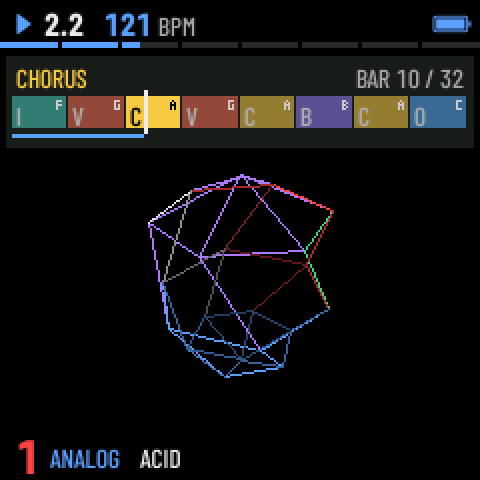
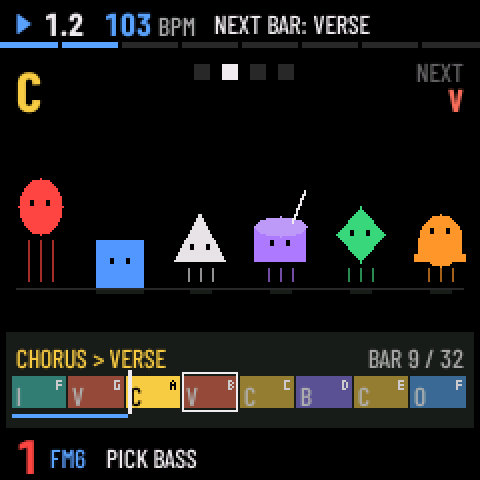
TEEN's SPELL: THE BAND in place of the wire shape
Six toys on a floor, one a track in its colour (a ball, a soft square, a triangle, a drum and its stick, a diamond, a
bell), two eyes each: a note of the track, its toy jumps (230 ms up and down, the shadow narrowing); muted, it lies
flat over MUTE; an FX key held, every eye squints. Over them the bar's four beats, the part's letter, NEXT and the
cued part's. ANIM OFF: a note lights its toy. The two pieces draw one state (bd_tick in the panel's). VALLEE.md, the
cheat sheet, the installer page and teen_scope.png with it.

Claude-Session: https://claude.ai/code/session_01Smnn5JCZ1AURvC9Nua4aWq

diff --git a/web/index_pkg.html b/web/index_pkg.html
@@ -160,7 +160,7 @@
   <div class="shots">
     <figure><img src="brand/teen_home.png" alt="TEEN HOME: an OP-1 style tape deck" loading="lazy"><figcaption data-t="cTeen1"></figcaption></figure>
     <figure><img src="brand/teen_preset.png" alt="TEEN: the preset's name, big" loading="lazy"><figcaption data-t="cTeen2"></figcaption></figure>
-    <figure><img src="brand/teen_scope.png" alt="TEEN: the song's map and the wire shape" loading="lazy"><figcaption data-t="cTeen3"></figcaption></figure>
+    <figure><img src="brand/teen_scope.png" alt="TEEN: the song's map and THE BAND" loading="lazy"><figcaption data-t="cTeen3"></figcaption></figure>
   </div>
 
   <h2 data-t="hNext"></h2>
@@ -198,7 +198,7 @@ const TEXT = {
     f6t: "2つのテーマ", f6: "神秘的な XENO と、OP-1 風のすっきりした TEEN。",
     xenoSub: "標準", teenSub: "OP-1 風",
     cXeno1: "HOME: テープデッキ、音色ごとのクリーチャー", cXeno2: "PRESETS を回す: 音色のクリーチャー", cXeno3: "HOME をもう一度: THE SPELL、上に曲マップ",
-    cTeen1: "HOME: 線のリール、ローラー、大きなトラック名", cTeen2: "PRESETS を回す: 名前を大きく", cTeen3: "HOME をもう一度: 曲で動くワイヤーの形",
+    cTeen1: "HOME: 線のリール、ローラー、大きなトラック名", cTeen2: "PRESETS を回す: 名前を大きく", cTeen3: "HOME をもう一度: 曲に合わせて跳ねる6つのおもちゃ",
     lEditor: "エディタ", lGuide: "Vallée ガイド", lLearn: "Skiff マニュアル", lCs: "チートシート", csBtn: "チートシート (PDF)",
     cs: "操作が一目でわかる 2 ページの PDF（英語）。印刷して FM-1 の横に",
     guide: "Vallée で増えたこと: GEN、THE SPELL、鍵盤、テーマ、音色（英語）",
@@ -266,7 +266,7 @@ const TEXT = {
     f6t: "Two themes", f6: "XENO, the esoteric one, and TEEN, a clean OP-1 style tape machine.",
     xenoSub: "THE DEFAULT", teenSub: "OP-1 STYLE",
     cXeno1: "HOME: the tape deck, a creature for every sound", cXeno2: "Turn PRESETS: the sound's creature", cXeno3: "HOME on HOME: THE SPELL, the song's map above",
-    cTeen1: "HOME: line reels, rollers, the tracks big", cTeen2: "Turn PRESETS: the name, big", cTeen3: "HOME on HOME: a wire shape the song moves",
+    cTeen1: "HOME: line reels, rollers, the tracks big", cTeen2: "Turn PRESETS: the name, big", cTeen3: "HOME on HOME: six toys that jump to the song",
     lEditor: "Editor", lGuide: "Vallée guide", lLearn: "Skiff manual", lCs: "Cheat sheet", csBtn: "Cheat sheet (PDF)",
     cs: "Every control on two pages: print it and keep it by the FM-1",
     guide: "Everything Vallée adds: GEN, THE SPELL, the keys, the themes, the sounds",

diff --git a/docs/cheatsheet/cheatsheet.html b/docs/cheatsheet/cheatsheet.html
@@ -117,7 +117,7 @@ footer { position: absolute; left: 0.42in; right: 0.42in; bottom: 0.18in; font-s
     </section>
 
     <section class="h2c2"><h2>Looks</h2>
-      <div class="e"><span class="l"><kbd>MENU › DISPLAY › THEME</kbd></span><b><b>XENO</b>: tape deck, a creature for every sound, THE SPELL. <b>TEEN</b>: an OP-1 style tape machine, big track names, a wire shape on HOME on HOME.</b></div>
+      <div class="e"><span class="l"><kbd>MENU › DISPLAY › THEME</kbd></span><b><b>XENO</b>: tape deck, a creature for every sound, THE SPELL. <b>TEEN</b>: an OP-1 style tape machine, big track names, a band of six toys that jump to the song on HOME on HOME.</b></div>
       <div class="e"><span class="l"><kbd>turn PRESETS on HOME</kbd></span><b>A box shows the new sound: its creature (XENO) or its name big (TEEN).</b></div>
       <div class="note">Creature families by track: 1 green aliens · 2 blue cryptids · 3 yellow psi orbs · 4 pink crystals · 5 purple sigils · 6 orange herbs.</div>
     </section>

diff --git a/firmware/src/ui_world.c b/firmware/src/ui_world.c
@@ -811,145 +811,172 @@ static void wl_visit(int32_t H, uint32_t now, uint16_t sky)
     }
 }
 
-/* (Vallée) THEME TEEN's HOME on HOME under the map: on black, a wire shape of thin lines (as the intro's grid), turning.
- * Rings of points round an axis, each pushed out towards the side its tracks pull: every track a direction, its hits
- * a pull that dies away, so the shape bulges where the song plays and the lines near flash in that track's colour.
- * Its build (how many rings, how many points, the twist) is new at every PLAY, the directions new at every part of the
- * song, the shape easing to them: never the same twice. ANIM OFF: still */
+/* (Vallée) THEME TEEN's HOME on HOME over the map: THE BAND ((the user's pick B of four), OP-1's way): on black, six
+ * toys on a floor, one a track in its colour, each its own shape (the bass a ball, the pad a soft square, the lead a
+ * triangle, the drums a drum and its stick, the colour a diamond, the percussion a bell), two eyes on it. A note of its
+ * track: it jumps (up and back in BD_JUMP ms, its shadow narrowing under it); muted: it lies flat, MUTE under it; an FX
+ * key held: every eye squints. Over them the bar's four beats, the part playing (its letter, its colour) and the part a
+ * key sends it to (NEXT). ANIM OFF: no jumps, a note lights its toy. bd_tick (the panel's piece) reads the song; the top
+ * piece draws the same state: both halves of one moment */
+#define BD_JUMP 230u                                    /* (ms: up and down) */
+#define BD_UP 30                                        /* (px at the top) */
 static struct {
-    uint32_t sig, a, p, seed;
-    int32_t en[NTRK];                                  /* each track's pull, 0..1000 */
-    int32_t lob[NTRK][3], to[NTRK][3];                 /* its direction (Q15), the one it eases to */
+    uint32_t hit[NTRK], now;                            /* (when each last struck; the moment drawn) */
     uint16_t idx[NTRK];
-    uint8_t nr, np, tw, was;
-} tg;
-static void tg_dirs(uint32_t s)
+    uint8_t beat, cur, next, n;                         /* (the beat 0..3; the part playing + 1, the cued + 1) */
+    uint8_t grp[2];                                     /* (their colours' groups) */
+    char cn[2], nn[2];                                  /* (their letters) */
+} bd;
+static void bd_tick(void)
 {
-    uint32_t k;
-    for (k = 0; k < NTRK; k++) {
-        uint32_t h = wl_h(s + k * 7919u), lo = h, la = (h >> 4) % 1610612736u - 805306368u;   /* (within 67 deg) */
-        int32_t cl = QK_COS(la);
-        tg.to[k][0] = cl * QK_COS(lo) / 32767;
-        tg.to[k][1] = QK_SIN(la);
-        tg.to[k][2] = cl * QK_SIN(lo) / 32767;
-    }
-}
-enum { TG_NR = 6, TG_NP = 10 };
-static int32_t tg_sx[TG_NR + 2][TG_NP], tg_sy[TG_NR + 2][TG_NP], tg_sz[TG_NR + 2][TG_NP], tg_kk[TG_NR + 2][TG_NP];
-#define sx tg_sx
-#define sy tg_sy
-#define sz tg_sz
-#define kk tg_kk
-static void wl_geo(int32_t H, int upd)              /* (upd: the song's moves and the points; else the lines alone, */
-{                                                   /* as the last ones: TEEN's top piece) */
-    const int anim = xe_anim();
-    const uint32_t now = anim ? fm1_ms : 0u;
-    int32_t R = H * 31 / 100, cx = 120, cy = H / 2 + 2;
-    uint32_t i, j, k, kb, pos, sig;
-    cv_rect(0, 0, 240, H, T_BG);
-    if (!upd && tg.nr)
-        goto lines;
-    if (song.playing && (!tg.was || !tg.nr)) {          /* PLAY: a new build */
-        tg.seed = wl_h(fm1_ms ^ ui.frame ^ wl.seed);
-        tg.nr = (uint8_t)(2u + tg.seed % 2u);           /* (few lines: 2 or 3 rings of 5 .. 7) */
-        tg.np = (uint8_t)(5u + (tg.seed >> 3) % 3u);
-        tg.tw = (uint8_t)((tg.seed >> 7) % 4u);
-        tg_dirs(tg.seed ^ 77u);
-        memcpy(tg.lob, tg.to, sizeof tg.lob);
-    }
-    if (!tg.nr) {
-        tg.nr = 2;
-        tg.np = 6;
-        tg_dirs(12345u);
-        memcpy(tg.lob, tg.to, sizeof tg.lob);
-    }
-    tg.was = song.playing;
-    (void)song_at(&kb, &pos);                           /* a new part of the song: new directions */
-    sig = song.playing ? lists.cur[kb % NTRK] + 1u + (uint32_t)lists.ent[kb % NTRK][lists.cur[kb % NTRK] % NENT][0] * 64u : 0u;
-    if (sig != tg.sig) {
-        tg.sig = sig;
-        tg.seed = wl_h(tg.seed ^ sig ^ fm1_ms);
-        tg_dirs(tg.seed);
-        for (k = 0; k < NTRK; k++)
-            tg.en[k] += 400;
-    }
-    for (k = 0; k < NTRK; k++) {                         /* the pulls: a hit, then dying away; easing to the new ways */
+    uint32_t at0[WL_NSEC], len[WL_NSEC], pos, total, n, i, k, cur = 0;
+    uint8_t grp[WL_NSEC], ent[WL_NSEC];
+    char nm[24];
+    bd.now = fm1_ms;
+    for (k = 0; k < NTRK; k++) {                        /* the strikes */
         const track_t *t = &trk[k];
-        uint32_t len = t->p[P_SLEN] > 0 ? (uint32_t)t->p[P_SLEN] : 16u, cur = t->seq_idx % len;
-        if (song.playing && cur != tg.idx[k] && !t->p[P_MUTE] && step_on(&t->step[cur]))
-            tg.en[k] = 1000;
-        tg.idx[k] = (uint16_t)cur;
-        tg.en[k] = tg.en[k] > 1000 ? 1000 : tg.en[k] * 9 / 10;
-        for (i = 0; i < 3u; i++)
-            tg.lob[k][i] += (tg.to[k][i] - tg.lob[k][i]) / 12;
+        uint32_t l = t->p[P_SLEN] > 0 ? (uint32_t)t->p[P_SLEN] : 16u, c = t->seq_idx % l;
+        if (song.playing && c != bd.idx[k] && !t->p[P_MUTE] && step_on(&t->step[c]))
+            bd.hit[k] = bd.now | 1u;
+        bd.idx[k] = (uint16_t)c;
     }
-    if (anim) {
-        int32_t e = 0;
-        for (k = 0; k < NTRK; k++)
-            e += tg.en[k];
-        tg.a += 0x00500000u + (uint32_t)e * 0x00000C00u;   /* (the more it plays, the faster it turns) */
-        tg.p = 0x14000000u + (uint32_t)(QK_SIN(now * 65536u) * 0x0C00);
+    n = wl_song(at0, len, grp, ent, &pos, &total);
+    bd.n = (uint8_t)n;
+    if (!n) {                                           /* (the LOOP: the selected track's steps) */
+        uint32_t l = TSEL->p[P_SLEN] > 0 ? (uint32_t)TSEL->p[P_SLEN] : 16u;
+        bd.beat = (uint8_t)(song.playing ? TSEL->seq_idx % l / 4u % 4u : 0u);
+        bd.cur = bd.next = 0;
+        return;
     }
-    for (i = 0; i < (uint32_t)tg.nr + 2u; i++)           /* the points: the poles (rows 0 and nr + 1), the rings */
-        for (j = 0; j < tg.np; j++) {
-            uint32_t la = i == 0 ? 3221225472u : i == tg.nr + 1u ? 1073741824u
-                                 : 3221225472u + i * (2147483648u / (tg.nr + 1u));
-            uint32_t lo = j * (4294967295u / tg.np) + i * (uint32_t)tg.tw * 0x08000000u;
-            int32_t v[3], cl = QK_COS(la), sum = 0, best = 0, r, x, y, z, ca, sa, cp, sp, x1, z1;
-            v[0] = cl * QK_COS(lo) / 32767;
-            v[1] = QK_SIN(la);
-            v[2] = cl * QK_SIN(lo) / 32767;
-            kk[i][j] = -1;
-            for (k = 0; k < NTRK; k++) {
-                int32_t d = (v[0] * tg.lob[k][0] + v[1] * tg.lob[k][1] + v[2] * tg.lob[k][2]) / 32767, c;
-                if (d <= 0)
-                    continue;
-                c = tg.en[k] * d / 32767 * d / 32767;     /* (a narrow pull: squared) */
-                sum += c;
-                if (c > best && c > 220)
-                    best = c, kk[i][j] = (int32_t)k;
-            }
-            r = R * (1000 + (sum > 1200 ? 1200 : sum) * 40 / 100 + (anim ? QK_SIN(now * 196608u + i * 0x2345678u + j * 0x9876543u) * 40 / 32767 : 0)) / 1000;
-            x = r * v[0] / 32767;
-            y = r * v[1] / 32767;
-            z = r * v[2] / 32767;
-            ca = QK_COS(tg.a), sa = QK_SIN(tg.a), cp = QK_COS(tg.p), sp = QK_SIN(tg.p);
-            x1 = (x * ca + z * sa) / 32767;
-            z1 = (-x * sa + z * ca) / 32767;
-            sz[i][j] = (y * sp + z1 * cp) / 32767;
-            sx[i][j] = cx + x1 * 260 / (260 + sz[i][j]);
-            sy[i][j] = cy + ((y * cp - z1 * sp) / 32767) * 260 / (260 + sz[i][j]);
-        }
-lines:
-    for (i = 0; i < (uint32_t)tg.nr + 2u; i++)           /* the lines: round each ring, and down to the next */
-        for (j = 0; j < tg.np; j++) {
-            uint32_t n2 = (j + 1u) % tg.np, m;
-            for (m = 0; m < 2u; m++) {
-                uint32_t bi = m ? i + 1u : i, bj = m ? j : n2;
-                int32_t z, kc;
-                uint16_t c;
-                if (bi > (uint32_t)tg.nr + 1u || (!m && (i == 0 || i == tg.nr + 1u)))
-                    continue;
-                z = (sz[i][j] + sz[bi][bj]) / 2;
-                kc = kk[i][j] >= 0 ? kk[i][j] : kk[bi][bj];
-                c = kc >= 0 ? T_TRK((uint32_t)kc) : T_THEME;
-                c = z > 0 ? ux_mix(c, T_BG, 30 + (z * 40 / (R + 1) > 40 ? 40 : z * 40 / (R + 1))) : c;
-                xe_line(sx[i][j], sy[i][j], sx[bi][bj], sy[bi][bj], c);
-            }
-        }
+    for (i = 0; i < n; i++)
+        if (pos >= at0[i] && pos < at0[i] + len[i])
+            cur = i;
+    bd.beat = (uint8_t)(pos % 192u / 48u);
+    bd.cur = (uint8_t)(cur + 1u);
+    bd.grp[0] = grp[cur];
+    wl_sec_name(nm, cur, grp[cur], wl_gen_layout(grp, n));
+    bd.cn[0] = nm[0];
+    bd.cn[1] = 0;
+    bd.next = wl.cue && wl.cue <= n ? wl.cue : 0u;
+    if (bd.next) {
+        bd.grp[1] = grp[bd.next - 1u];
+        wl_sec_name(nm, bd.next - 1u, grp[bd.next - 1u], wl_gen_layout(grp, n));
+        bd.nn[0] = nm[0];
+        bd.nn[1] = 0;
+    }
 }
-
-#undef sx
-#undef sy
-#undef sz
-#undef kk
-/* TEEN's HOME on HOME: the wire shape from the cards' row down (two pieces, as TEEN's HOME), the song's map under it */
+static void bd_oval(int32_t x0, int32_t y0, int32_t w, int32_t h, uint16_t c)   /* (filled, in the box) */
+{
+    int32_t y, a = w / 2, b = h / 2, cx = x0 + a, cy = y0 + b;
+    for (y = -b; y <= b; y++) {
+        int32_t xx = b ? a * xe_isqrt((b * b - y * y) * 256) / (b * 16) : a;
+        cv_rect(cx - xx, cy + y, 2 * xx + 1, 1, c);
+    }
+}
+static int bd_in(int32_t y, int32_t h) { return y + cv_oy >= 0 && y + h + cv_oy <= (int32_t)cv_h; }   /* (text: in this piece) */
+static void bd_toy(uint32_t k, int32_t x, int32_t foot, int32_t up, int lit, int squint)
+{
+    const track_t *t = &trk[k];
+    uint16_t col = lit ? T_TRK(k) : ux_mix(T_TRK(k), T_BG, 70), eye = T_BG;
+    int32_t y = foot - up, s = up > BD_UP / 2 ? 2 : 0, i, ey;   /* (s: stretched, up in the air) */
+    if (t->p[P_MUTE]) {                                  /* (asleep: flat on the floor) */
+        cv_rect(x - 13, foot - 6, 26, 6, T_DIM);
+        cv_rect(x - 7, foot - 4, 4, 1, T_BG);
+        cv_rect(x + 3, foot - 4, 4, 1, T_BG);
+        if (bd_in(foot + 3, 12)) {
+            int32_t b[4];
+            text_ink(&AF_S, "MUTE", b);
+            cv_text_on(x - b[2] / 2 - b[0], foot + 3, &AF_S, "MUTE", T_DIM, T_BG);
+        }
+        return;
+    }
+    {   /* its shadow: narrower the higher it is */
+        int32_t sw = 24 - up;
+        if (sw > 4)
+            cv_rect(x - sw / 2, foot + 1, sw, 2, T_SURF);
+    }
+    if (up > 6)                                          /* (the jump's lines) */
+        for (i = -6; i <= 6; i += 6)
+            cv_rect(x + i, y + 3, 1, up - 6, ux_mix(col, T_BG, 35));
+    ey = y - 15;
+    switch (k % 6u) {
+    case 0:                                              /* bass: a ball */
+        bd_oval(x - 13 + s, y - 26 - s, 26 - 2 * s, 26 + s, col);
+        ey = y - 17;
+        break;
+    case 1:                                              /* pad: a soft square */
+        cv_rrect(x - 12 + s / 2, y - 24 - s, 24 - s, 24 + s, 5, col, T_BG);
+        break;
+    case 2:                                              /* lead: a triangle */
+        for (i = 0; i < 24 + s; i++) {
+            int32_t hw = 1 + i * 13 / (24 + s);
+            cv_rect(x - hw, y - 24 - s + i, 2 * hw, 1, col);
+        }
+        ey = y - 9;
+        break;
+    case 3:                                              /* drums: a drum, its stick */
+        cv_rect(x - 13, y - 18, 26, 18, col);
+        bd_oval(x - 13, y - 23, 26, 10, ux_mix(T_TEXT, col, 70));
+        cv_line_t(x + 6, y - 21, x + (up ? 12 : 16), y - (up ? 36 : 33), T_TEXT, 2);
+        ey = y - 11;
+        break;
+    case 4:                                              /* colour: a diamond */
+        for (i = 0; i <= 28 + s; i++) {
+            int32_t m = (28 + s) / 2, hw = 12 * (i <= m ? i : 28 + s - i) / m;
+            cv_rect(x - hw, y - 28 - s + i, 2 * hw + 1, 1, col);
+        }
+        ey = y - 16;
+        break;
+    default:                                             /* percussion: a bell */
+        bd_oval(x - 11, y - 24 - s, 22, 26 + s, col);
+        cv_rect(x - 12, y - 11, 24, 11, T_BG);
+        cv_rect(x - 11, y - 12, 22, 8, col);
+        cv_rect(x - 13, y - 4, 26, 4, col);
+        ey = y - 17;
+        break;
+    }
+    if (squint) {                                        /* (an FX key held) */
+        cv_rect(x - 6, ey + 1, 4, 1, eye);
+        cv_rect(x + 2, ey + 1, 4, 1, eye);
+    } else if (!(xe_anim() && (bd.now / 16u + k * 397u) % 211u < 7u)) {   /* (a blink now and then) */
+        cv_rect(x - 5, ey, 2, 3, eye);
+        cv_rect(x + 3, ey, 2, 3, eye);
+    } else {
+        cv_rect(x - 5, ey + 1, 2, 1, eye);
+        cv_rect(x + 3, ey + 1, 2, 1, eye);
+    }
+}
+static void wl_band(int32_t H)
+{
+    const int anim = xe_anim();
+    int32_t foot = H - 22, k, b;
+    cv_rect(0, 0, 240, H, T_BG);
+    cv_rect(8, foot, 224, 1, T_LINE);
+    for (k = 0; k < (int32_t)NTRK; k++) {
+        uint32_t dt = bd.now - (bd.hit[k] & ~1u);
+        int32_t up = 0, lit = anim || (bd.hit[k] && dt < 120u);   /* (ANIM OFF: a note lights it) */
+        if (anim && bd.hit[k] && dt < BD_JUMP)            /* (a parabola: up, then down) */
+            up = (int32_t)(4u * BD_UP * dt * (BD_JUMP - dt) / (BD_JUMP * BD_JUMP));
+        bd_toy((uint32_t)k, 20 + k * 40, foot, up, lit, perf_auto_on != 0);
+    }
+    for (b = 0; b < 4; b++)                               /* the bar's beats */
+        cv_rrect(97 + b * 14, 4, 8, 8, 4, b == bd.beat && song.playing ? T_TEXT : T_LINE, T_BG);
+    if (!bd_in(0, 28))                                    /* (the letters: the top piece's) */
+        return;
+    if (bd.cur)
+        cv_text_on(8, 0, &AF_L, bd.cn, WL_SEC[bd.grp[0] % 8u], T_BG);
+    if (bd.next) {
+        cv_text_r(232, 0, &AF_S, "NEXT", T_DIM, T_BG);
+        cv_text_r(232, 12, &AF_M, bd.nn, WL_SEC[bd.grp[1] % 8u], T_BG);
+    }
+}
+/* TEEN's HOME on HOME: THE BAND from the cards' row down (two pieces, as TEEN's HOME), the song's map under it */
 #define WL_TEEN_TOP (Y_GRAPH - Y_LABEL)
 static int32_t wl_teen_h(void) { return WL_TEEN_TOP + (int32_t)graph_h() - 48; }
 static void wl_teen_top(void)
 {
     cv_begin(240, WL_TEEN_TOP, T_BG);
-    wl_geo(wl_teen_h(), 0);
+    wl_band(wl_teen_h());
     cv_blit(0, Y_LABEL);
 }
 static void wl_world(void)
@@ -959,9 +986,10 @@ static void wl_world(void)
     const uint32_t now = anim ? fm1_ms : 0u;
     const uint16_t sky = WL_RGB(14, 10, 28), floor = WL_RGB(24, 18, 40);
     int32_t lvl = 0, k, i, hx, hy;
-    if (UX_TEEN) {                                     /* (TEEN: the wire shape, no spell; the map under it) */
+    if (UX_TEEN) {                                     /* (TEEN: THE BAND, no spell; the map under it) */
+        bd_tick();
         cv_oy = -WL_TEEN_TOP;
-        wl_geo(wl_teen_h(), 1);
+        wl_band(wl_teen_h());
         cv_oy = H - 46;
         wl_strip_at(1);
         cv_oy = 0;

diff --git a/firmware/src/ui_xeno.c b/firmware/src/ui_xeno.c
@@ -13,7 +13,7 @@
 static void sound_name(const track_t *t, char *b);   /* (ui_draw.c) */
 /* (Vallée) THEME TEEN (its colours, CUSTOM's over it too): XENO's screens plain, no esoterica: a tape machine with
  * plain reels, no stars, no creatures (on the head, in the lanes, the preset box); HOME on HOME the song's map over a
- * wire shape that the song moves (ui_world.c wl_geo) */
+ * band of six toys that the song makes jump (ui_world.c wl_band) */
 #define UX_TEEN (ux.teen != 0)
 #define XE_LANE_H 13                                  /* a lane, 1 between them: the deck gets what is left (39 or more) */
 #define XE_TEEN_TOP (Y_GRAPH - Y_LABEL)              /* ((Vallée) TEEN's HOME tall: the cards' row's rows (xe_home) */

diff --git a/VALLEE.md b/VALLEE.md
@@ -239,9 +239,12 @@ tempo between the reels; the tracks under it, their names big. No knob cards on 
 their room; turn a knob and the cards come back while you turn it (the same knobs, the same settings, also on the
 track's EDIT pages). No creatures; turning PRESETS pops up a box with the sound's name in big letters and its engine
 under it. HOME on HOME has the same song map and
-section keys, at the bottom, and above it, on black, a wire shape of a few thin lines that turns and bulges towards each track as it
-plays, its lines flashing in that track's colour; it takes a new build at every PLAY and new directions at every part,
-never the same twice. Pick one on MENU > DISPLAY > THEME.
+section keys, at the bottom, and above it, on black, THE BAND: six toys on a floor, one for each track in its colour
+(the bass a ball, the pad a soft square, the lead a triangle, the drums a drum with its stick, the colour a diamond, the
+percussion a bell), each with two eyes. A toy jumps on every note its track plays; a muted track's toy lies flat with
+MUTE under it; while you hold an FX key they all squint. Over them: the bar's four beats, the letter of the part playing,
+and, when a key has sent the song to another part, NEXT and that part's letter. With MENU > DISPLAY > ANIM off the toys
+don't jump: a note lights its toy instead. Pick one on MENU > DISPLAY > THEME.
 Skiff's other six (SKIFF, HI-CON, PAPER, CRYPT, NEON, QUARK) and their widgets and pixel font are gone, which freed
 about 36 KB of the FM-1's flash; a unit on one of them comes up in XENO. THEME CUSTOM (your own colours, from the web
 editor) still works, over either.
